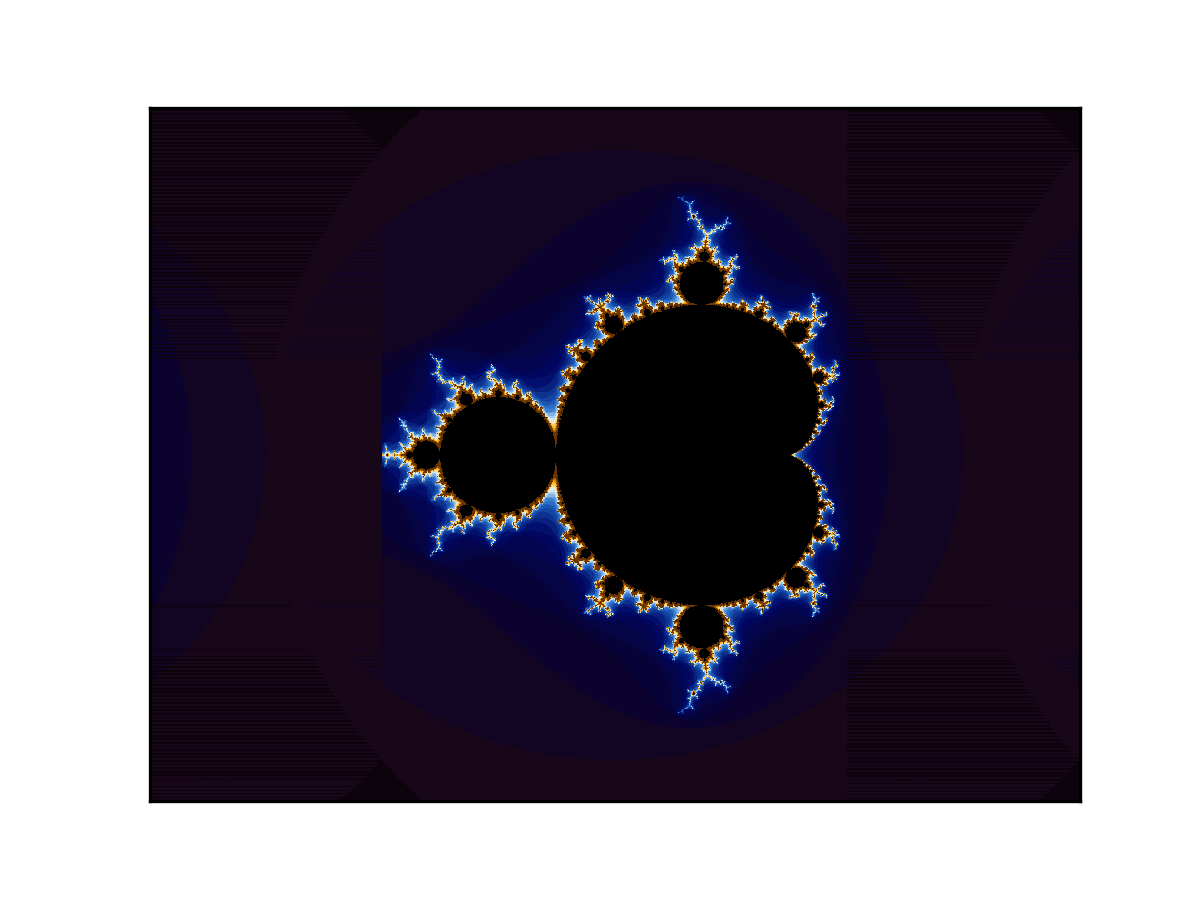
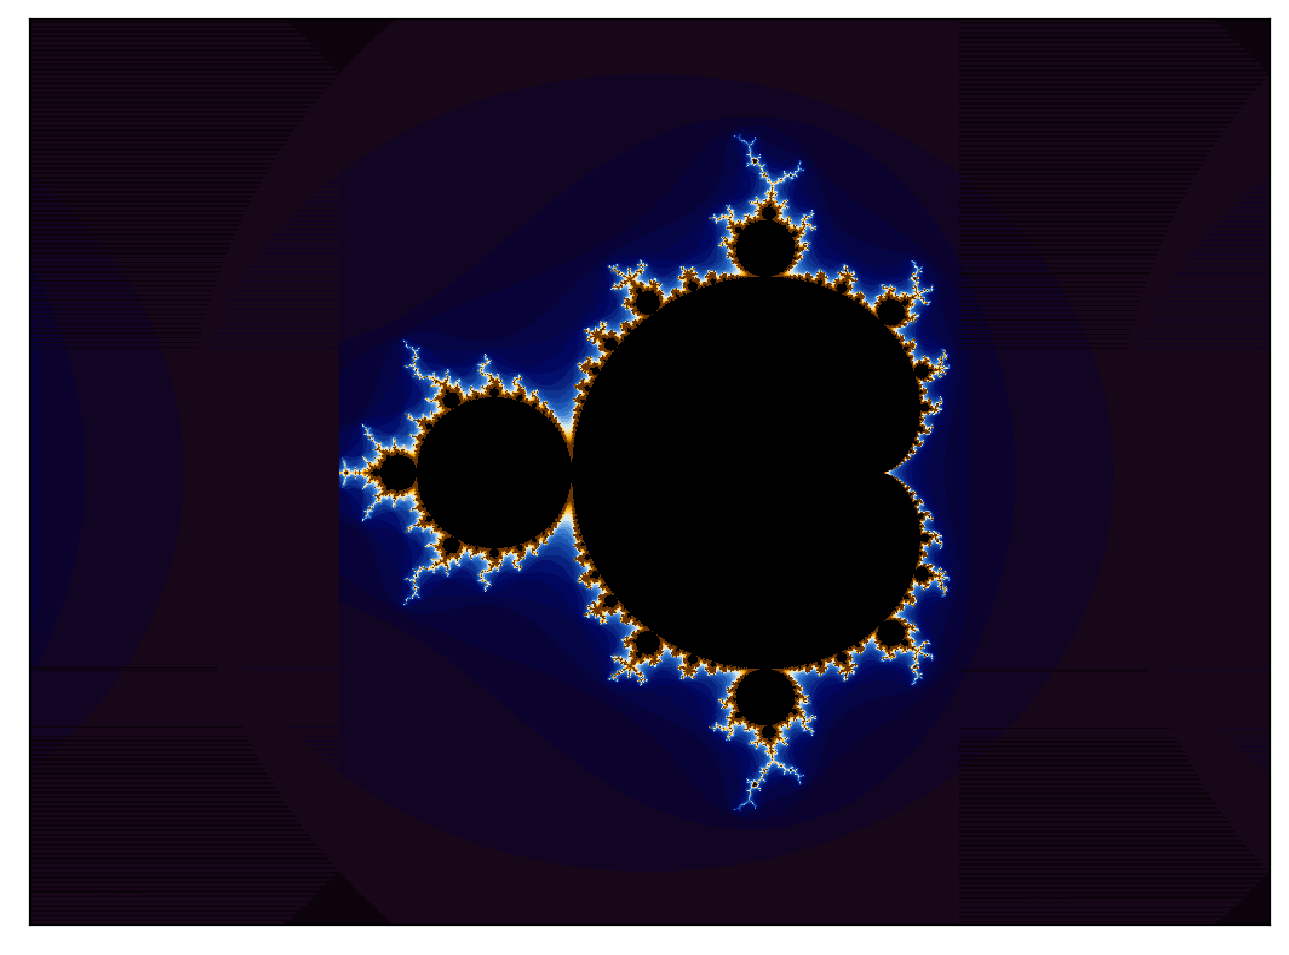
Updates from Overleaf

diff --git a/latex/src/2_method.tex b/latex/src/2_method.tex
@@ -1,3 +1,6 @@
+%   +-----------------+
+%   |   METHODOLOGY   |
+%   +-----------------+
 \section{Methodology}\label{sec:method}
 The elements of the Mandelbrot set are computed by the recursive function \code{iterate} that follows:
 
@@ -19,12 +22,14 @@ int iterate( float cx, float cy )
 \noindent
 Calling such function has a highly variable computational cost that depends on the number of loop iterations that, in turn, depends on the values of \code{cx} and \code{cy}, and on the maximum number of iterations allowed (\code{MAXIT}). In \code{omp-mandelbrot.c}, the \code{iterate} function is called within a two-level nested loop that computes the Mandelbrot set for a 2-D array having 768 rows (\code{y\_size}) and 1024 columns (\code{x\_size}), while the maximum number of iterations is set to 10000.
 
-For the studies of this project, a new set of scripts\footnote{All scripts, data and images produced for this project are available at \href{https://github.com/mbarbetti/ppf-omp-project}{\code{mbarbetti/ppf-omp-project}}.} has been prepared, starting from a new source code, named \code{my-mandelbrot.c}. The main difference with respect to \code{omp-mandelbrot.c} is the memory allocation to store the elements of the Mandelbrot set, in order to export them for graphical visualization (see Figure \ref{fig:mandelbrot}). 
+For the studies of this project, a new set of scripts\footnote{All scripts, data and images produced for this project are available at \href{https://github.com/mbarbetti/ppf-omp-project}{\code{mbarbetti/ppf-omp-project}}.} has been prepared, starting from a new source code, named \code{my-mandelbrot.c}. The main difference with respect to \code{omp-mandelbrot.c} is the memory allocation to store the elements of the Mandelbrot set, in order to export them for graphical visualization (see Figure~\ref{fig:mandelbrot}). 
 
 \begin{figure}[b!]
     \centering
-    \includegraphics[width=0.99\textwidth]{mandelbrot.png}
-    \caption{\label{fig:mandelbrot}}
+    \includegraphics[width=0.75\textwidth]{mandelbrot.png}
+    \caption{\label{fig:mandelbrot}
+    The Mandelbrot set (black) within a continuously colored environment.
+    }
 \end{figure}
 
 The program is parallelized using a set of OpenMP APIs that wraps the nested loop as shown in the following:
@@ -49,11 +54,9 @@ The program is parallelized using a set of OpenMP APIs that wraps the nested loo
 \end{lstlisting}
 
 \noindent
-The use of the \codeblue{omp for} directive and of a private scope for the \code{x} variable means that only the inner loop is parallelized and its work distributed across the threads assigned the executing program by the \codeblue{omp parallel} directive. The time needed for completing the nested loop is measured (namely, the \emph{elapsed time}) and used performance studies.
+The use of the \codeblue{omp for} directive and of a private scope for the \code{x} variable means that only the inner loop is parallelized and its work distributed across the threads assigned in the executing program by the \codeblue{omp parallel} directive. The time needed for completing the nested loop is measured (namely, the \emph{elapsed time}) and used for performance studies.
 
-In addition to the single-loop parallelization 
-
-
+In addition to the inner loop parallelization, a second script using the \codeblue{collapse(2)} clause has been prepared. It makes the \code{x} and \code{y} variables private by default and allows to distribute the work of the whole nested loop across the various threads reached by the \codeblue{omp parallel} directive.
 
 \begin{lstlisting}[language=C]
   // [...]
@@ -61,6 +64,23 @@ In addition to the single-loop parallelization
   // [...]
 \end{lstlisting}
 
-\subsection{Scheduling study}\label{sec:method-sched}
+\noindent
+In the following parts of this document, the elapsed times needed to compute the Mandelbrot set parallelizing only the inner loop (with \code{my-mandelbrot.c}) or the whole nested loop (with \code{my-mandelbrot-collapse.c}) are reported for different types of scheduling and partition sizes. Moreover, the performance in weak and strong scaling conditions are discussed for both the parallelization strategies.
 
-\subsection{Scaling study}\label{sec:method-scale}
+%   < Machine >
+\subsection{Machine}\label{sec:machine}
+All the performance studies have been carried on a single machine equipped with an Intel Core i7-9750H~@~2.60 GHz and 6~CPU cores. The Mandelbrot programs (and each bash script) have been executed within the Docker image \code{ppf-shm05:latest}~\cite{classroom} through an Ubuntu~20.04 instance powered by WSL~2 \cite{wsl} on Windows~10.
+
+%   < Scheduling study >
+\subsection{Scheduling study}\label{sec:method-sched}
+The performance of both the Mandelbrot programs has been studied using different scheduling strategies. In particular, the scheduling types investigated have been the \code{static} and \code{dynamic} ones, while the scheduling chunksize has been varied from 1 to 256.  
+
+Two bash scripts have been prepared for this purpose, named \code{size-partition.sh} and \code{size-partition-collapse.sh}. The latters, taken the number of threads to use and the scheduling type at run-time, pass the information to the respective executable file through the environment variables \codeblue{OMP\_NUM\_THREADS} and \codeblue{OMP\_SCHEDULE}. The programs are then executed within a loop that assign various scheduling chunksize values at run-time. In order to obtain results more robust, each measurement of the elapsed time for a specific configuration is taken 20 times. The test has been repeated passing 2, 4, 6, 8, 10 and 12 threads to the bash scripts to study the behavior of the various scheduling strategies by varying the available computing processors.
+
+%   < Weak and strong scaling study >
+\subsection{Weak and strong scaling study}\label{sec:method-scale}
+Study the performance in weak scaling conditions corresponds to expand the input data size so that the work performed by each threads remains constant: $T_P = T_1$. Since the presence of a two-level nested loop, $O(m \times n)$, in order to satisfy these requirements the size of the Mandelbrot matrix (\code{y\_size}, \code{x\_size}) should increase by a factor $\sqrt{P}$ with $P$ the number of processors available.
+
+On the other hand, in strong scaling the input data size is kept constant so that the total work is constant. Then, what expected is that the work performed by each thread linearly decrease with the increasing of the number of processors available: $T_P = T_1 / P$.
+
+Four bash scripts have been prepared for these studies, two based on the \code{my-mandelbrot.c} program named \code{weak-scaling.sh} and \code{strong-scaling.sh}, and two based on the \code{collapse} variant. All the bash scripts take the scheduling type and chunksize at run-time, and pass them to the respective executable file through \codeblue{OMP\_SCHEDULE}. The programs are the executed within a loop that assign a variable number of processors to \codeblue{OMP\_NUM\_THREADS}. Finally, in order to obtain results more robust, each measurement of the elapsed time for a specific configuration is taken 20 times. After a simple statistical treatment, the measurements are combined to derive the speedup values.

diff --git a/latex/src/1_intro.tex b/latex/src/1_intro.tex
@@ -1,6 +1,9 @@
+%   +------------------+
+%   |   INTRODUCTION   |
+%   +------------------+
 \section{Introduction}\label{sec:intro}
 This document reports the methodology followed and the results obtained for the final project of ``Parallel Programming Fundamentals'', a PhD course of the University of Siena given by Roberto Giorgi and Marco Procaccini, and attended from $23^{\rm{rd}}$ to $29^{\rm{th}}$ May 2022.
 
-The aim of the project is to quantify the \emph{parallelism} achieved by a program using the OpenMP APIs \cite{openmp} to speed up the computation of the Mandelbrot set \cite{mandelbrot}. The program used for this study is written in C and corresponds to a slightly modified version of the \code{omp-mandelbrot.c} script provided within the course materials \cite{classroom}. 
+The aim of the project is to quantify the \emph{parallelism} achieved by a program using the OpenMP APIs~\cite{openmp} to speed up the computation of the Mandelbrot set~\cite{mandelbrot} on a single machine. The program used for this study is written in C and corresponds to a slightly modified version of the \code{omp-mandelbrot.c} script provided within the course materials \cite{classroom}. 
 
-The elapsed time of the program has been measured for different types of \emph{scheduling} and \emph{partition sizes}, and its performance has been tested in \emph{weak} and \emph{strong scaling} conditions, as better described in Section \ref{sec:method}. The results of the scheduling study are reported in Section \ref{sec:sched}, while the speedup achieved with weak and strong scaling conditions are shown in Section \ref{sec:scale}. In Section \ref{sec:concl}, some general remarks are discussed, and an estimation of the parallelism of the program is given.
+The elapsed time of the program has been measured for different types of \emph{scheduling} and \emph{partition sizes}, and its performance has been tested in \emph{weak} and \emph{strong scaling} conditions, as better described in Section~\ref{sec:method}. The results of the scheduling study are reported in Section~\ref{sec:res-sched}, while the speedup achieved with weak and strong scaling conditions are shown in Section~\ref{sec:res-scale}. In Section~\ref{sec:concl}, some general remarks are discussed, and an estimation of the parallelism of the program is given.

diff --git a/latex/src/3_result.tex b/latex/src/3_result.tex
@@ -1,8 +1,13 @@
+%   +-------------+
+%   |   RESULTS   |
+%   +-------------+
 \section{Results}\label{sec:result}
 
-\subsection{Scheduling performance}\label{sec:sched}
+%   < Scheduling performance >
+\subsection{Scheduling performance}\label{sec:res-sched}
 
-\begin{figure}[h!]
+
+\begin{figure}[p!]
     \centering
     \null\hfill
     \includegraphics[width=0.49\textwidth]{sizeVStime_4threads_static.png}
@@ -24,7 +29,8 @@
     \caption{\label{fig:sched}}
 \end{figure}
 
-\subsection{Scaling performance}\label{sec:scale}
+%   < Weak and strong scaling performance >
+\subsection{Weak and strong scaling performance}\label{sec:res-scale}
 
 \begin{figure}[h!]
     \centering
